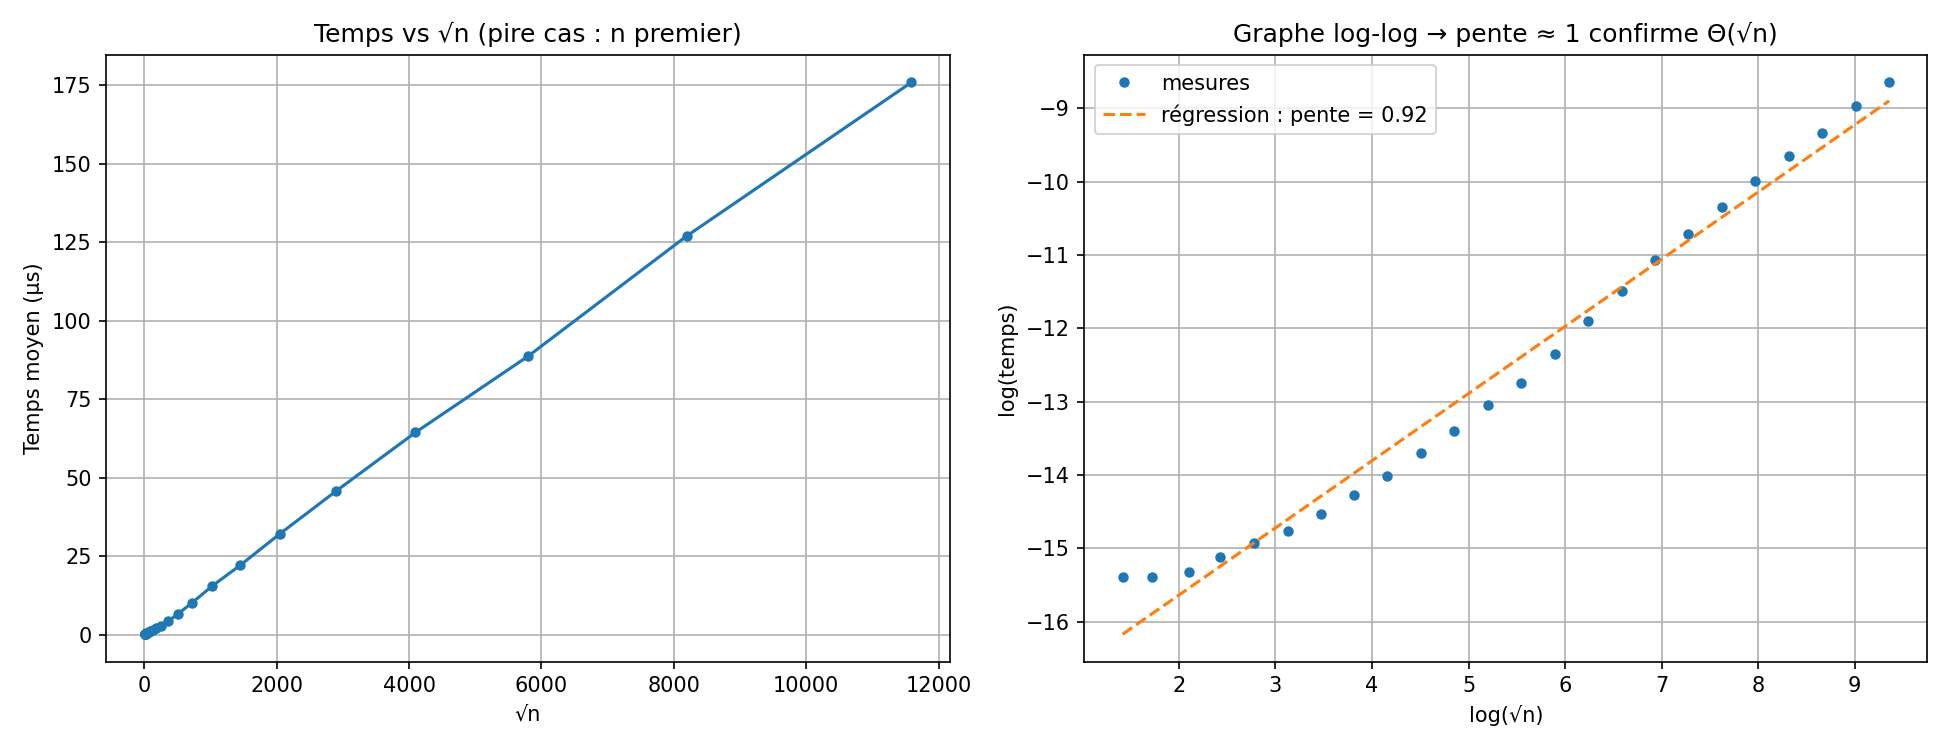
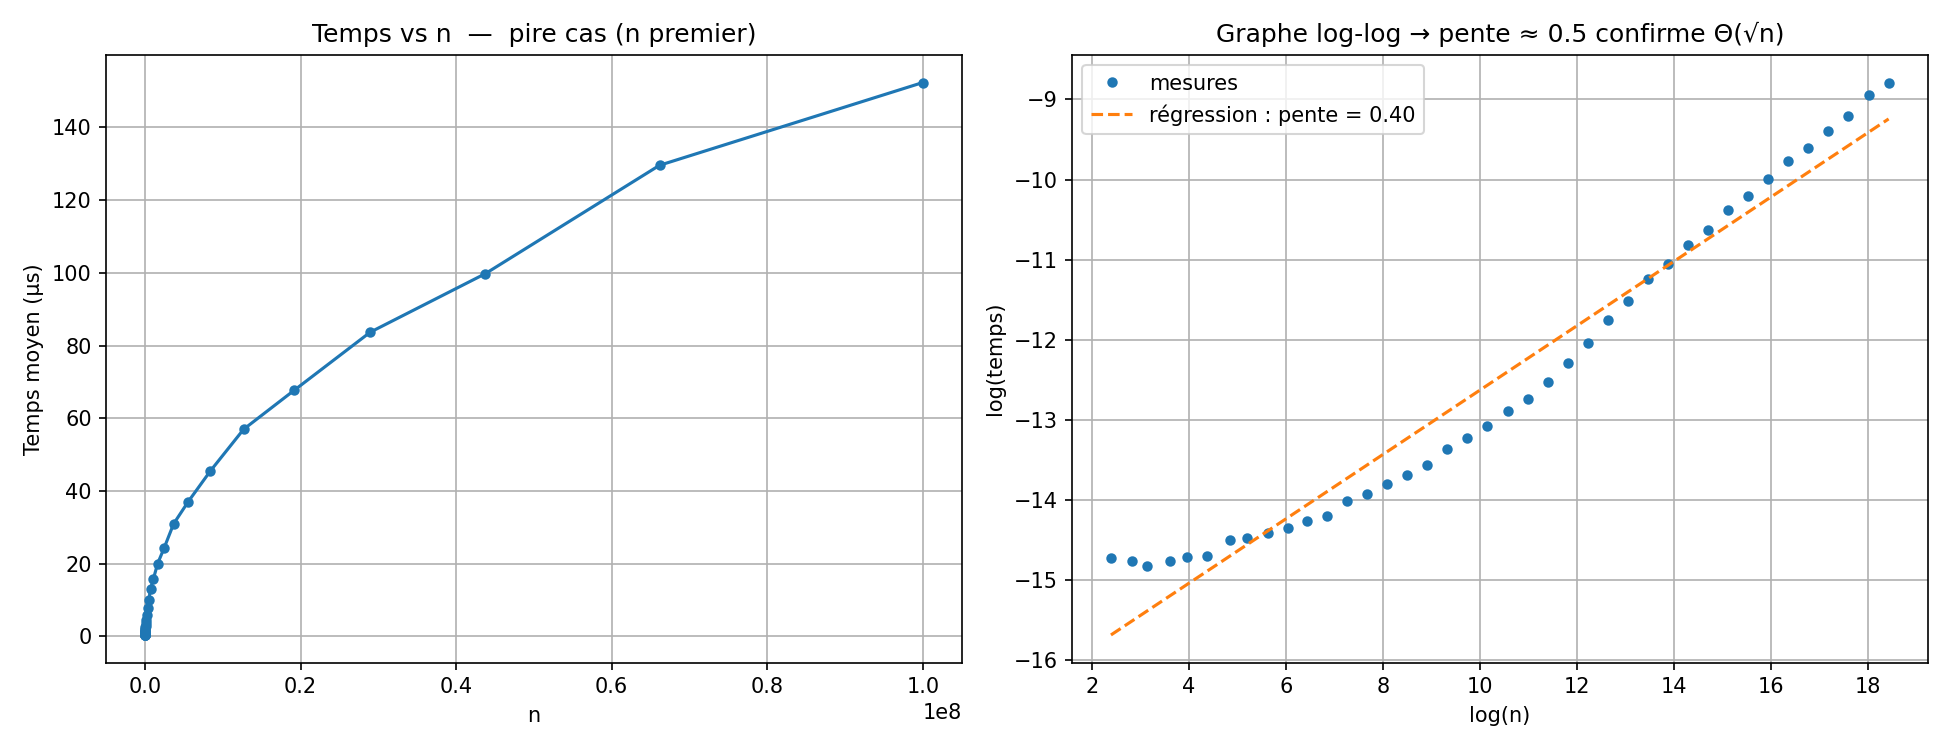
complexite

diff --git a/td2/complexity.py b/td2/complexity.py
@@ -1,0 +1,75 @@
+"""
+Étude expérimentale de la complexité du test de primalité naïf.
+"""
+
+import math
+import time
+import numpy as np
+import matplotlib.pyplot as plt
+
+from main import is_prime_naive
+
+
+def next_prime(start: int) -> int:
+    """Retourne le plus petit premier >= start."""
+    n = start | 1  # force impair
+    while not is_prime_naive(n):
+        n += 2
+    return n
+
+
+def measure(n: int, repeats: int = 30) -> float:
+    """Temps moyen (s) pour tester la primalité de n."""
+    t0 = time.perf_counter()
+    for _ in range(repeats):
+        is_prime_naive(n)
+    return (time.perf_counter() - t0) / repeats
+
+
+def run():
+    # Pire cas : n premier → on parcourt tous les diviseurs jusqu'à √n
+    # Valeurs logarithmiquement espacées entre 10^1 et 10^8
+    ns_raw = np.logspace(1, 8, num=40, dtype=int)
+    candidates = [next_prime(int(n)) for n in ns_raw]
+    times = [measure(n) for n in candidates]
+    sqrts = [math.sqrt(n) for n in candidates]
+
+    # --- Tableau ---
+    print(f"{'n':>12}  {'√n':>10}  {'temps (µs)':>12}")
+    print("-" * 38)
+    for n, sq, t in zip(candidates, sqrts, times):
+        print(f"{n:>12}  {sq:>10.1f}  {t*1e6:>12.4f}")
+
+    # --- Régression log-log (en fonction de n) ---
+    log_n = np.log(candidates)
+    log_t = np.log(times)
+    slope, intercept = np.polyfit(log_n, log_t, 1)
+    print(f"\nPente log-log = {slope:.3f}  (attendu ≈ 0.5 pour Θ(√n))")
+
+    # --- Graphiques ---
+    fig, (ax1, ax2) = plt.subplots(1, 2, figsize=(13, 5))
+
+    ax1.plot(candidates, [t * 1e6 for t in times], "o-", linewidth=1.5, markersize=4)
+    ax1.set_xlabel("n")
+    ax1.set_ylabel("Temps moyen (µs)")
+    ax1.set_title("Temps vs n  —  pire cas (n premier)")
+    ax1.grid(True)
+
+    ax2.plot(log_n, log_t, "o", markersize=4, label="mesures")
+    ax2.plot(log_n, slope * log_n + intercept, "--",
+             label=f"régression : pente = {slope:.2f}")
+    ax2.set_xlabel("log(n)")
+    ax2.set_ylabel("log(temps)")
+    ax2.set_title("Graphe log-log → pente ≈ 0.5 confirme Θ(√n)")
+    ax2.legend()
+    ax2.grid(True)
+
+    plt.tight_layout()
+    out = "td2/complexity_naive_primality.png"
+    plt.savefig(out, dpi=150)
+    print(f"Graphique sauvegardé : {out}")
+    plt.show()
+
+
+if __name__ == "__main__":
+    run()
